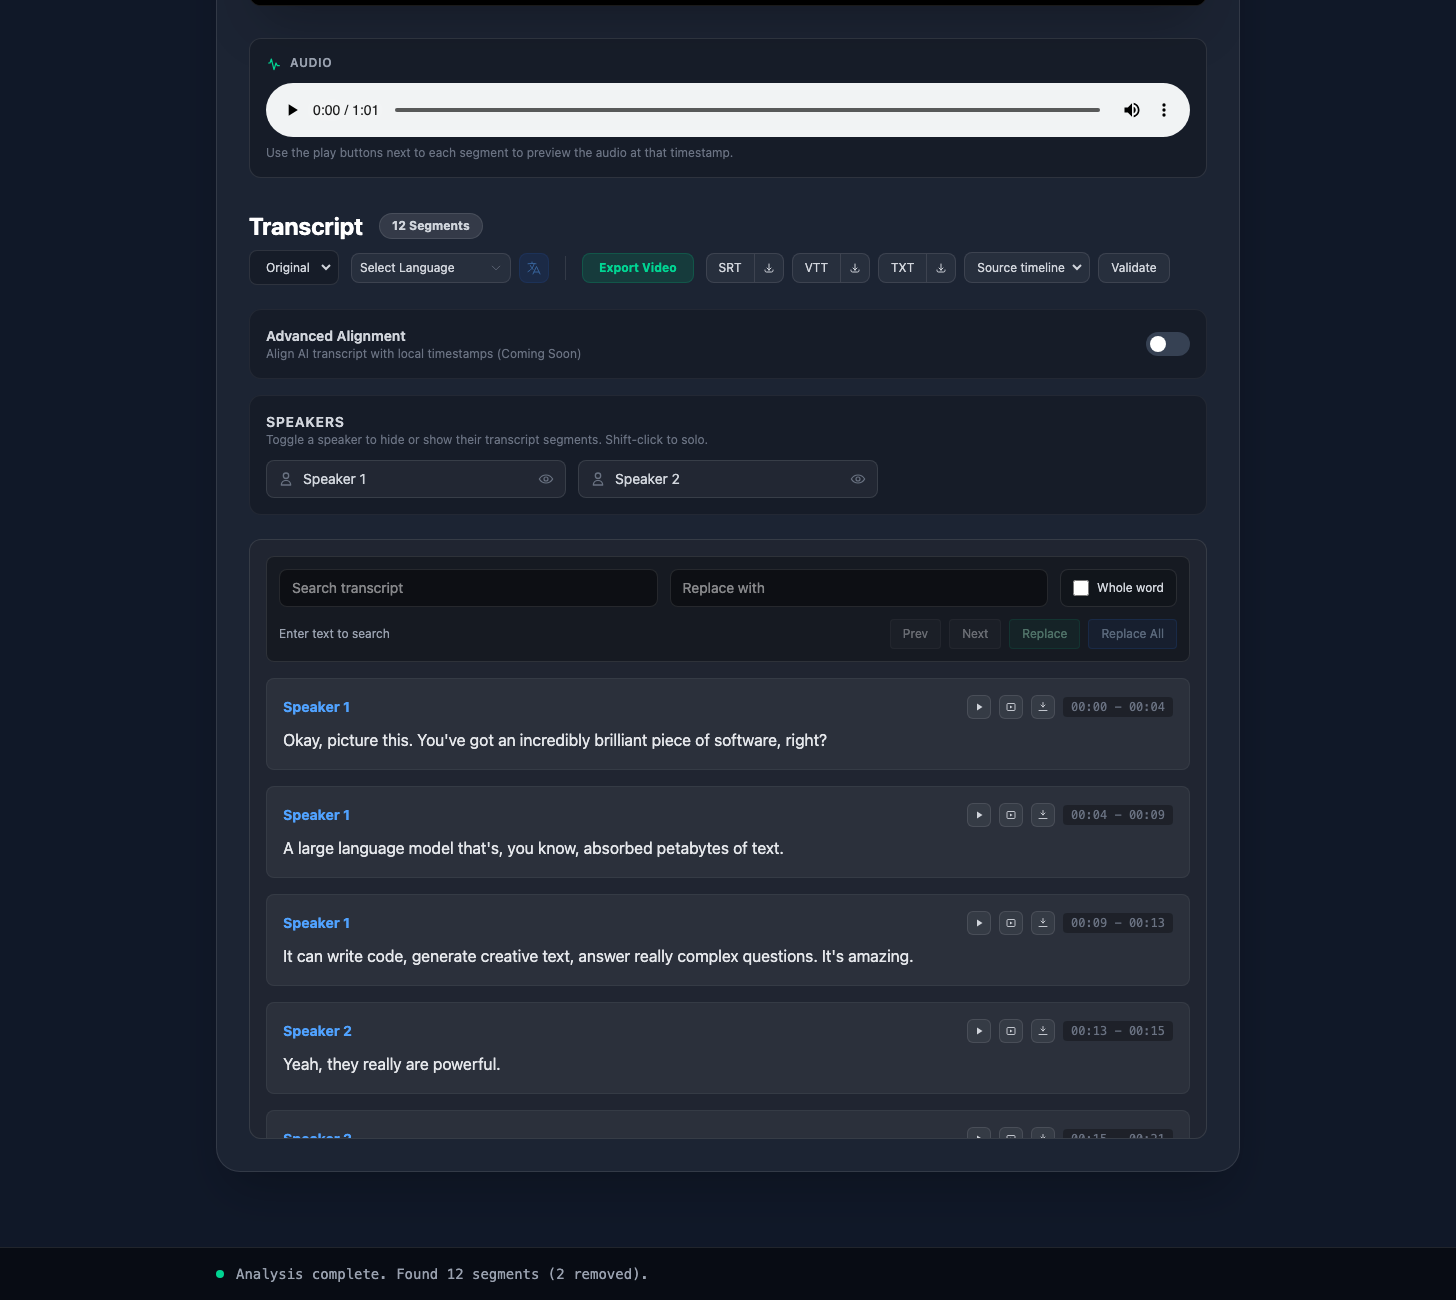
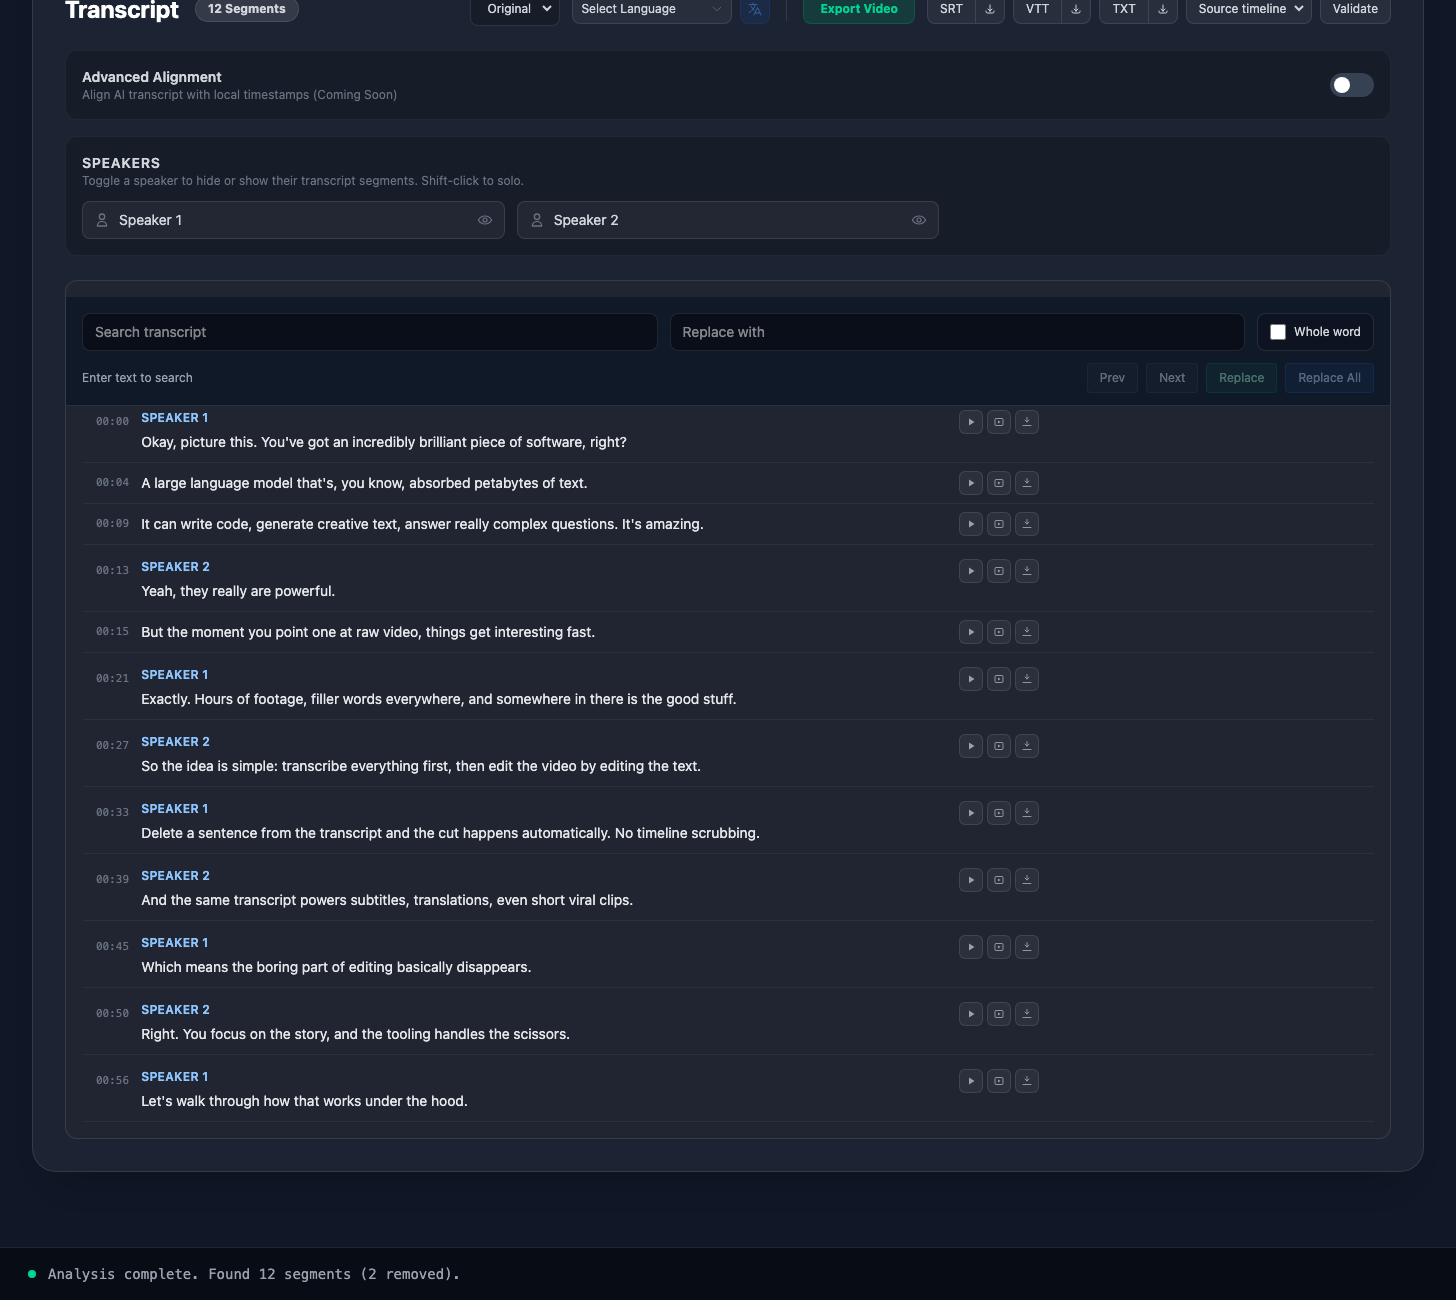
style(editor): make the transcript list dense and use the whole window
The segment list is where editing time is actually spent, and it was the
worst offender for wasted space: spaced cards cost ~108px per segment and the
scroll viewport was pinned to 600px no matter how tall the window was, so
roughly five segments were visible at a time.

Segments are now list rows instead of cards. State moved from a filled
background to a left accent bar plus a hairline divider, which removes the
per-card padding and margin, and the speaker label is only drawn when the
speaker actually changes — consecutive rows from one speaker collapse to a
single line. Playback stays visible because it is how people review; the
edit/split/merge/delete actions appear on hover so the list stays quiet while
scrolling.

On wide screens the row is a grid of time gutter, prose capped at a readable
measure, and the toolbar in its own column beside the text, so the toolbar
sits next to what it acts on and never overlaps the words. Below `md` the
toolbar falls back to an overlay in the row corner.

Find/replace is sticky at the top of the scroll area so it stays reachable in
a long transcript, and the viewport now scales with the window
(max-h-[min(72vh,60rem)]).

Measured on a 1728x1080 window: median row 108px -> 61px and viewport
600px -> 776px, so ~5 visible segments becomes ~13.

The content column also moves from max-w-5xl to max-w-[1400px] (Settings to
max-w-4xl, which is a form and stays narrow for readability).

diff --git a/src/components/Editor.vue b/src/components/Editor.vue
@@ -125,6 +125,30 @@ const visibleSegments = computed(() =>
     .filter(({ segment, originalIndex }) => !props.showOnlyReviewSegments || segmentNeedsReview(segment, originalIndex))
 );
 
+/**
+ * Whether a row opens a new speaker run.
+ *
+ * Consecutive segments from the same speaker repeat the name for no
+ * information gain, and the transcript is the surface people scroll most. Only
+ * labelling the first row of a run removes a line from most rows and makes
+ * speaker changes far easier to spot while scanning.
+ */
+function startsSpeakerRun(visibleIndex: number): boolean {
+  const rows = visibleSegments.value;
+  if (visibleIndex <= 0) return true;
+  return rows[visibleIndex - 1]?.segment.speaker !== rows[visibleIndex]?.segment.speaker;
+}
+
+/** Badges force the header line even mid-run, so they are never hidden. */
+function hasRowBadges(segment: TranscriptSegment, originalIndex: number): boolean {
+  return (
+    !!segment.mergeStatus ||
+    segment.similarityScore !== undefined ||
+    segment.reviewResolved === true ||
+    getBlacklistMatches(originalIndex).length > 0
+  );
+}
+
 watch(visibleSegments, (segments) => {
   const visibleIndices = new Set(segments.map(({ originalIndex }) => originalIndex));
 
@@ -721,8 +745,12 @@ const mergeDown = (originalIndex: number) => {
 </script>
 
 <template>
-  <div class="editor-container p-4 bg-black/20 backdrop-blur-md border border-white/10 rounded-xl overflow-y-auto max-h-[600px] relative">
-    <div class="mb-4 rounded-lg border border-white/10 bg-black/30 p-3">
+  <!-- The scroll viewport grows with the window instead of being pinned to a
+       fixed 600px, which wasted most of the height on a maximised window. -->
+  <div class="editor-container relative max-h-[min(72vh,60rem)] min-h-[18rem] overflow-y-auto rounded-xl border border-white/10 bg-black/20 p-4 backdrop-blur-md">
+    <!-- Sticky so find/replace stays reachable while scrolling a long
+         transcript. Negative margins let it cover the container padding. -->
+    <div class="sticky top-0 z-20 -mx-4 -mt-4 mb-3 border-b border-white/10 bg-gray-900/95 px-4 pb-3 pt-4 backdrop-blur-md">
       <div class="grid gap-3 lg:grid-cols-[minmax(0,1fr)_minmax(0,1fr)_auto]">
         <input
           v-model="searchQuery"
@@ -799,24 +827,39 @@ const mergeDown = (originalIndex: number) => {
         </div>
     </div>
 
-    <div v-for="{ segment, originalIndex } in visibleSegments" :key="`${originalIndex}-${segment.start}-${segment.end}`" 
+    <!-- Dense list rows rather than spaced cards: state is carried by a left
+         accent bar and a hairline divider, which removes ~64px of padding and
+         margin per segment without losing the hit target or hover affordance. -->
+    <div v-for="({ segment, originalIndex }, visibleIndex) in visibleSegments" :key="`${originalIndex}-${segment.start}-${segment.end}`"
          :ref="(element) => setSegmentRef(originalIndex, element as HTMLDivElement | null)"
-         class="segment mb-4 p-4 rounded-lg transition-all duration-300 group relative border"
+         class="segment group relative grid grid-cols-[auto_minmax(0,1fr)] gap-x-3 border-b border-l-2 border-b-white/5 px-3 py-2 transition-colors md:grid-cols-[auto_minmax(0,80ch)_1fr]"
          :class="[
             selectedIndices.has(originalIndex)
-              ? 'bg-blue-500/20 border-blue-500/50'
+              ? 'border-l-blue-400 bg-blue-500/15'
               : isCurrentSearchSegment(originalIndex)
-                ? 'bg-teal-500/10 border-teal-500/40'
+                ? 'border-l-teal-400 bg-teal-500/10'
                 : isSearchResultSegment(originalIndex)
-                  ? 'bg-amber-500/10 border-amber-500/30'
-                  : 'bg-white/5 border-white/5 hover:bg-white/10 hover:border-white/20'
+                  ? 'border-l-amber-400/70 bg-amber-500/[0.07]'
+                  : 'border-l-transparent hover:bg-white/[0.045]',
+            startsSpeakerRun(visibleIndex) && visibleIndex > 0 ? 'mt-1.5' : ''
          ]"
          @click="handleSegmentClick(originalIndex, $event)">
-      
-      <!-- Segment header (always visible, including while editing) -->
-      <div class="flex justify-between text-sm text-gray-400 mb-2">
-          <div class="flex items-center gap-2">
-            <span class="font-bold text-blue-400">{{ segment.speaker }}</span>
+
+      <!-- Time gutter: the anchor people scan by. -->
+      <span
+        class="select-none pt-0.5 font-mono text-[11px] leading-5 tabular-nums text-gray-500"
+        :title="`${segment.start} – ${segment.end}`"
+      >{{ segment.start }}</span>
+
+      <div class="min-w-0 md:col-start-2">
+      <!-- Header line: only rendered when it carries information (a speaker
+           change or a badge), so mid-run rows are a single line of text. -->
+      <div
+        v-if="startsSpeakerRun(visibleIndex) || hasRowBadges(segment, originalIndex) || editingIndex === originalIndex || splittingIndex === originalIndex"
+        class="mb-1 flex flex-wrap items-center gap-x-2 gap-y-1 pr-24 text-sm text-gray-400 md:pr-0"
+      >
+          <div class="flex flex-wrap items-center gap-2">
+            <span class="text-xs font-semibold uppercase tracking-wide text-blue-300">{{ segment.speaker }}</span>
             <span
               v-if="segment.mergeStatus"
               class="inline-flex items-center rounded-full border px-2 py-0.5 text-[10px] font-medium uppercase tracking-wide"
@@ -843,73 +886,19 @@ const mergeDown = (originalIndex: number) => {
               Resolved
             </span>
           </div>
-          <div class="flex items-center gap-2">
-            <button
-              v-if="audioAvailable"
-              type="button"
-              :data-testid="`segment-preview-${originalIndex}`"
-              class="flex h-6 w-6 items-center justify-center rounded-md border transition-colors"
-              :class="previewIndex === originalIndex
-                ? 'border-emerald-500/40 bg-emerald-500/20 text-emerald-300'
-                : 'border-white/10 bg-white/5 text-gray-300 hover:bg-white/10 hover:text-white'"
-              :title="previewIndex === originalIndex ? 'Stop audio preview' : 'Play original audio for this segment'"
-              @click.stop="requestPreview(originalIndex)"
-            >
-              <svg v-if="previewIndex === originalIndex" class="h-3 w-3" viewBox="0 0 24 24" fill="currentColor">
-                <rect x="6" y="5" width="4" height="14" rx="1" />
-                <rect x="14" y="5" width="4" height="14" rx="1" />
-              </svg>
-              <svg v-else class="h-3 w-3" viewBox="0 0 24 24" fill="currentColor">
-                <path d="M8 5v14l11-7z" />
-              </svg>
-            </button>
-            <button
-              v-if="videoAvailable"
-              type="button"
-              :data-testid="`segment-play-video-${originalIndex}`"
-              class="flex h-6 w-6 items-center justify-center rounded-md border transition-colors"
-              :class="videoPreviewIndex === originalIndex
-                ? 'border-blue-500/40 bg-blue-500/20 text-blue-300'
-                : 'border-white/10 bg-white/5 text-gray-300 hover:bg-white/10 hover:text-white'"
-              :title="videoPreviewIndex === originalIndex ? 'Stop video preview' : 'Play this video segment'"
-              @click.stop="requestVideoPreview(originalIndex)"
-            >
-              <svg v-if="videoPreviewIndex === originalIndex" class="h-3 w-3" viewBox="0 0 24 24" fill="none" stroke="currentColor" stroke-width="1.8">
-                <rect x="4" y="5" width="16" height="14" rx="2" />
-                <rect x="9" y="9" width="6" height="6" rx="1" fill="currentColor" stroke="none" />
-              </svg>
-              <svg v-else class="h-3 w-3" viewBox="0 0 24 24" fill="none" stroke="currentColor" stroke-width="1.8">
-                <rect x="4" y="5" width="16" height="14" rx="2" />
-                <path d="M10 9.2l5 2.8-5 2.8z" fill="currentColor" stroke="none" />
-              </svg>
-            </button>
-            <button
-              v-if="videoAvailable"
-              type="button"
-              :data-testid="`segment-play-from-${originalIndex}`"
-              class="flex h-6 w-6 items-center justify-center rounded-md border border-white/10 bg-white/5 text-gray-300 transition-colors hover:bg-white/10 hover:text-white"
-              title="Play video from here"
-              @click.stop="requestPlayFrom(originalIndex)"
-            >
-              <svg class="h-3 w-3" viewBox="0 0 24 24" fill="none" stroke="currentColor" stroke-width="1.8">
-                <path stroke-linecap="round" stroke-linejoin="round" d="M12 3v9" />
-                <path stroke-linecap="round" stroke-linejoin="round" d="M8 8l4 4 4-4" />
-                <path stroke-linecap="round" stroke-linejoin="round" d="M4 19h16" />
-              </svg>
-            </button>
-            <span class="font-mono text-xs bg-black/30 px-2 py-0.5 rounded text-gray-500">{{ segment.start }} - {{ segment.end }}</span>
-          </div>
       </div>
 
-      <!-- Display Mode body. `relative` scopes the action toolbar's absolute
-           positioning to here (not the whole card), so it no longer overlaps
-           the header row's play buttons/timestamp above. -->
-      <div v-if="editingIndex !== originalIndex && splittingIndex !== originalIndex" class="relative">
-        <p class="text-gray-200 leading-relaxed" v-html="renderSegmentText(segment.text, originalIndex)"></p>
+
+      <!-- Display Mode body -->
+      <div v-if="editingIndex !== originalIndex && splittingIndex !== originalIndex">
+        <p
+          class="pr-24 text-sm leading-6 text-gray-200 md:pr-0"
+          v-html="renderSegmentText(segment.text, originalIndex)"
+        ></p>
 
         <div
           v-if="getBlacklistMatches(originalIndex).length > 0"
-          class="mt-3 rounded-lg border border-amber-500/20 bg-amber-500/10 p-3"
+          class="mt-2 rounded-lg border border-amber-500/20 bg-amber-500/10 p-3"
         >
           <div class="flex items-center justify-between gap-3">
             <span class="text-xs font-semibold uppercase tracking-wide text-amber-100">Blacklist Warning</span>
@@ -946,26 +935,6 @@ const mergeDown = (originalIndex: number) => {
               {{ hasAlternativeText(segment, source) ? getAlternativeText(segment, source) : 'No matching sentence detected.' }}
             </p>
           </div>
-        </div>
-        
-        <!-- Action Toolbar -->
-        <div class="absolute top-2 right-2 hidden group-hover:flex gap-2 bg-black/60 backdrop-blur-md p-1.5 rounded-lg border border-white/10 shadow-xl">
-          <button
-            v-if="segmentNeedsReview(segment, originalIndex) || segment.reviewResolved"
-            :data-testid="`segment-mark-done-${originalIndex}`"
-            @click.stop="toggleReviewResolved(originalIndex)"
-            class="px-2 py-1 rounded text-xs transition-colors border"
-            :class="segment.reviewResolved
-              ? 'bg-white/5 text-gray-300 border-white/10 hover:bg-white/10'
-              : 'bg-emerald-500/20 text-emerald-300 border-emerald-500/30 hover:bg-emerald-500/30'"
-            :title="segment.reviewResolved ? 'Return this segment to the review list' : 'Mark this segment as reviewed and hide it from the review list'"
-          >
-            {{ segment.reviewResolved ? 'Reopen' : 'Mark Done' }}
-          </button>
-          <button @click.stop="startEditing(originalIndex)" class="px-2 py-1 bg-blue-500/20 text-blue-300 border border-blue-500/30 rounded text-xs hover:bg-blue-500/30 transition-colors">Edit</button>
-          <button :data-testid="`segment-split-${originalIndex}`" @click.stop="startSplitting(originalIndex)" class="px-2 py-1 bg-teal-500/20 text-teal-300 border border-teal-500/30 rounded text-xs hover:bg-teal-500/30 transition-colors" title="Split this segment at a chosen point">Split</button>
-          <button v-if="originalIndex < segments.length - 1" @click.stop="mergeDown(originalIndex)" class="px-2 py-1 bg-purple-500/20 text-purple-300 border border-purple-500/30 rounded text-xs hover:bg-purple-500/30 transition-colors" title="Merge with next">Merge ↓</button>
-          <button @click.stop="deleteSegment(originalIndex)" class="px-2 py-1 bg-red-500/20 text-red-300 border border-red-500/30 rounded text-xs hover:bg-red-500/30 transition-colors">Del</button>
         </div>
       </div>
 
@@ -1122,6 +1091,90 @@ const mergeDown = (originalIndex: number) => {
             Add Split
           </button>
         </div>
+      </div>
+      </div>
+
+      <!-- One row toolbar: playback stays visible (it is the main way people
+           review), the editing actions appear on hover so the list stays quiet
+           while scrolling.
+           On wide screens it occupies its own grid column beside the prose, so
+           the transcript keeps a readable measure, the toolbar sits next to the
+           text it acts on, and nothing ever overlaps the words. Below `md` it
+           falls back to an overlay in the row's corner. -->
+      <div class="absolute right-2 top-1.5 flex items-center gap-1 rounded-lg transition-colors group-hover:bg-black/60 group-hover:px-1.5 group-hover:py-1 group-hover:shadow-lg group-hover:ring-1 group-hover:ring-white/10 group-hover:backdrop-blur-md md:static md:col-start-3 md:row-start-1 md:h-6 md:justify-self-start md:group-hover:bg-transparent md:group-hover:p-0 md:group-hover:shadow-none md:group-hover:ring-0">
+            <button
+              v-if="audioAvailable"
+              type="button"
+              :data-testid="`segment-preview-${originalIndex}`"
+              class="flex h-6 w-6 items-center justify-center rounded-md border transition-colors"
+              :class="previewIndex === originalIndex
+                ? 'border-emerald-500/40 bg-emerald-500/20 text-emerald-300'
+                : 'border-white/10 bg-white/5 text-gray-400 hover:bg-white/10 hover:text-white'"
+              :title="previewIndex === originalIndex ? 'Stop audio preview' : 'Play original audio for this segment'"
+              @click.stop="requestPreview(originalIndex)"
+            >
+              <svg v-if="previewIndex === originalIndex" class="h-3 w-3" viewBox="0 0 24 24" fill="currentColor">
+                <rect x="6" y="5" width="4" height="14" rx="1" />
+                <rect x="14" y="5" width="4" height="14" rx="1" />
+              </svg>
+              <svg v-else class="h-3 w-3" viewBox="0 0 24 24" fill="currentColor">
+                <path d="M8 5v14l11-7z" />
+              </svg>
+            </button>
+            <button
+              v-if="videoAvailable"
+              type="button"
+              :data-testid="`segment-play-video-${originalIndex}`"
+              class="flex h-6 w-6 items-center justify-center rounded-md border transition-colors"
+              :class="videoPreviewIndex === originalIndex
+                ? 'border-blue-500/40 bg-blue-500/20 text-blue-300'
+                : 'border-white/10 bg-white/5 text-gray-400 hover:bg-white/10 hover:text-white'"
+              :title="videoPreviewIndex === originalIndex ? 'Stop video preview' : 'Play this video segment'"
+              @click.stop="requestVideoPreview(originalIndex)"
+            >
+              <svg v-if="videoPreviewIndex === originalIndex" class="h-3 w-3" viewBox="0 0 24 24" fill="none" stroke="currentColor" stroke-width="1.8">
+                <rect x="4" y="5" width="16" height="14" rx="2" />
+                <rect x="9" y="9" width="6" height="6" rx="1" fill="currentColor" stroke="none" />
+              </svg>
+              <svg v-else class="h-3 w-3" viewBox="0 0 24 24" fill="none" stroke="currentColor" stroke-width="1.8">
+                <rect x="4" y="5" width="16" height="14" rx="2" />
+                <path d="M10 9.2l5 2.8-5 2.8z" fill="currentColor" stroke="none" />
+              </svg>
+            </button>
+            <button
+              v-if="videoAvailable"
+              type="button"
+              :data-testid="`segment-play-from-${originalIndex}`"
+              class="flex h-6 w-6 items-center justify-center rounded-md border border-white/10 bg-white/5 text-gray-400 transition-colors hover:bg-white/10 hover:text-white"
+              title="Play video from here"
+              @click.stop="requestPlayFrom(originalIndex)"
+            >
+              <svg class="h-3 w-3" viewBox="0 0 24 24" fill="none" stroke="currentColor" stroke-width="1.8">
+                <path stroke-linecap="round" stroke-linejoin="round" d="M12 3v9" />
+                <path stroke-linecap="round" stroke-linejoin="round" d="M8 8l4 4 4-4" />
+                <path stroke-linecap="round" stroke-linejoin="round" d="M4 19h16" />
+              </svg>
+            </button>
+
+            <template v-if="editingIndex !== originalIndex && splittingIndex !== originalIndex">
+              <span class="mx-0.5 hidden h-4 w-px bg-white/15 group-hover:block"></span>
+              <button
+                v-if="segmentNeedsReview(segment, originalIndex) || segment.reviewResolved"
+                :data-testid="`segment-mark-done-${originalIndex}`"
+                @click.stop="toggleReviewResolved(originalIndex)"
+                class="hidden rounded border px-2 py-1 text-xs transition-colors group-hover:block"
+                :class="segment.reviewResolved
+                  ? 'bg-white/5 text-gray-300 border-white/10 hover:bg-white/10'
+                  : 'bg-emerald-500/20 text-emerald-300 border-emerald-500/30 hover:bg-emerald-500/30'"
+                :title="segment.reviewResolved ? 'Return this segment to the review list' : 'Mark this segment as reviewed and hide it from the review list'"
+              >
+                {{ segment.reviewResolved ? 'Reopen' : 'Mark Done' }}
+              </button>
+              <button @click.stop="startEditing(originalIndex)" class="hidden rounded border border-blue-500/30 bg-blue-500/20 px-2 py-1 text-xs text-blue-300 transition-colors hover:bg-blue-500/30 group-hover:block">Edit</button>
+              <button :data-testid="`segment-split-${originalIndex}`" @click.stop="startSplitting(originalIndex)" class="hidden rounded border border-teal-500/30 bg-teal-500/20 px-2 py-1 text-xs text-teal-300 transition-colors hover:bg-teal-500/30 group-hover:block" title="Split this segment at a chosen point">Split</button>
+              <button v-if="originalIndex < segments.length - 1" @click.stop="mergeDown(originalIndex)" class="hidden rounded border border-purple-500/30 bg-purple-500/20 px-2 py-1 text-xs text-purple-300 transition-colors hover:bg-purple-500/30 group-hover:block" title="Merge with next">Merge ↓</button>
+              <button @click.stop="deleteSegment(originalIndex)" class="hidden rounded border border-red-500/30 bg-red-500/20 px-2 py-1 text-xs text-red-300 transition-colors hover:bg-red-500/30 group-hover:block">Del</button>
+            </template>
       </div>
 
     </div>

diff --git a/src/components/StatusBar.vue b/src/components/StatusBar.vue
@@ -27,7 +27,7 @@ function formatEta(seconds: number | null | undefined): string {
 
 <template>
     <div class="fixed bottom-0 left-0 right-0 p-4 bg-black/50 backdrop-blur-md border-t border-white/10 flex items-center justify-between z-50">
-        <div class="max-w-5xl mx-auto w-full flex flex-col gap-2">
+        <div class="mx-auto w-full max-w-[1400px] flex flex-col gap-2">
             <div v-if="progressPercentage !== null" class="w-full bg-gray-700 rounded-full h-1.5 overflow-hidden">
                 <div class="bg-blue-500 h-full transition-all duration-300 ease-out" :style="{ width: `${progressPercentage}%` }"></div>
             </div>

diff --git a/src/views/Home.vue b/src/views/Home.vue
@@ -1382,7 +1382,7 @@ function updateProcessing(processing: boolean) {
 
 <template>
     <div class="min-h-screen bg-gray-900 text-gray-200 p-8 pb-24 font-sans selection:bg-blue-500/30">
-        <div class="max-w-5xl mx-auto">
+        <div class="mx-auto w-full max-w-[1400px]">
             <WorkspaceTabs
                 :tabs="workspaceTabs"
                 :activeTab="activeTab"

diff --git a/src/views/Settings.vue b/src/views/Settings.vue
@@ -530,7 +530,7 @@ function cancel() {
 
 <template>
     <div class="min-h-screen bg-gray-900 text-gray-200 p-8 font-sans">
-        <div class="max-w-2xl mx-auto">
+        <div class="mx-auto w-full max-w-4xl">
             <header class="mb-10">
                 <h1 class="text-4xl font-bold text-white mb-2">
                     AI Settings
